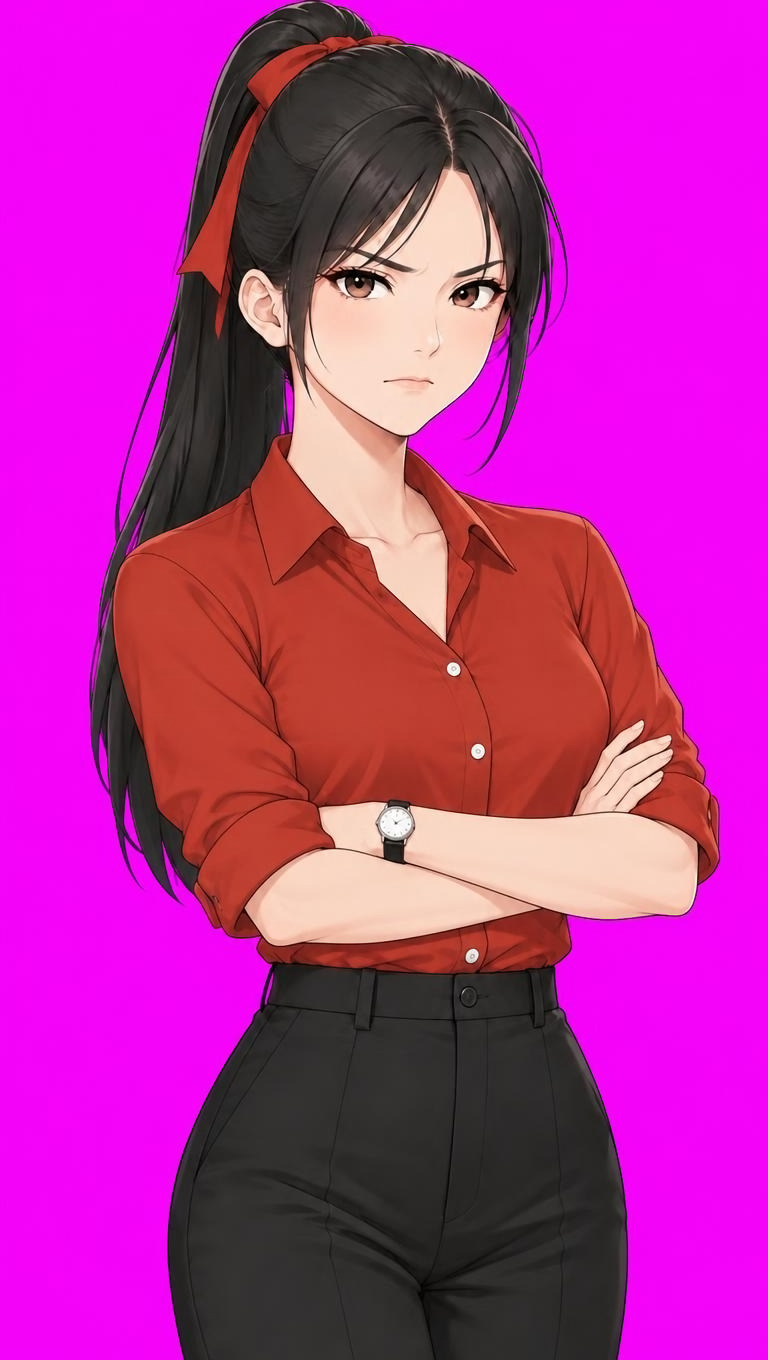
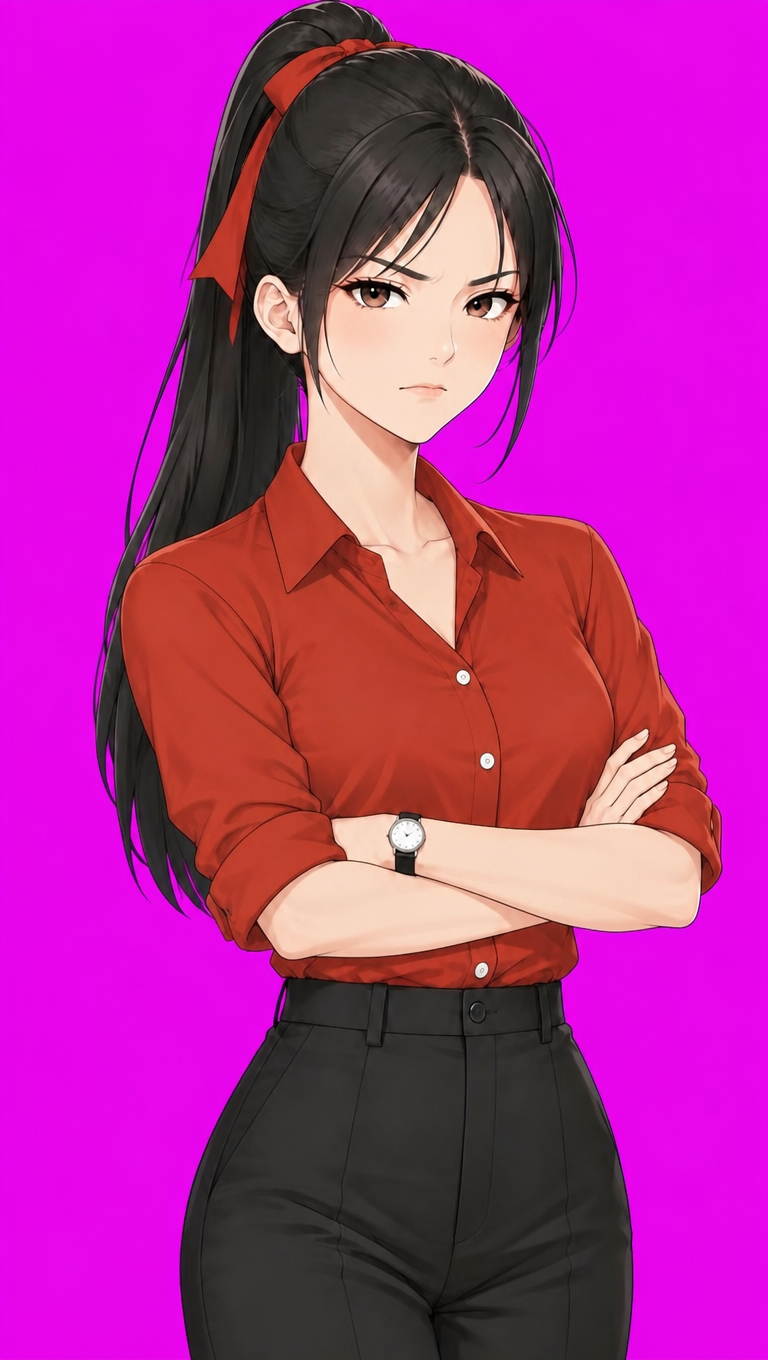
Minh Anh vẽ lại mặt ở các biểu cảm cho giống ảnh gốc (mặt thon, cằm nhọn, mắt to): vui / lo / nghiêm làm từ ảnh neo chỉ đổi nét mặt, khoanh tay sửa mặt theo ảnh neo; làm lại khung miệng mở / mắt nhắm và cắt khít bộ nhép môi cả bốn ảnh. cat-bo-moi.py nhận thêm bộ talk-rigs (prototype)

diff --git a/prototype/src/mvp/ui/nhep-moi-mvp.ts b/prototype/src/mvp/ui/nhep-moi-mvp.ts
@@ -138,8 +138,8 @@ export const BO_NHEP_MOI_MVP: ReadonlyMap<string, TalkRig> = new Map<string, Tal
   bo('char-tung-ao-xanh-thinking', tungAoXanhThinkingMouth, [391, 288, 59, 48], tungAoXanhThinkingEyes, [340, 191, 169, 76]),
   bo('char-tung-ao-xanh-doi-mu', tungAoXanhDoiMuMouth, [367, 302, 84, 52], tungAoXanhDoiMuEyes, [341, 211, 169, 68]),
   bo('char-ha-vy-day-kinh', haVyDayKinhMouth, [378, 382, 61, 47], haVyDayKinhEyes, [329, 287, 179, 60]),
-  bo('char-minh-anh-serious', minhAnhSeriousMouth, [376, 362, 67, 48], minhAnhSeriousEyes, [314, 257, 200, 66]),
-  bo('char-minh-anh-khoanh-tay', minhAnhKhoanhTayMouth, [377, 365, 63, 42], minhAnhKhoanhTayEyes, [309, 256, 204, 65]),
+  bo('char-minh-anh-serious', minhAnhSeriousMouth, [394, 373, 51, 32], minhAnhSeriousEyes, [322, 259, 201, 63]),
+  bo('char-minh-anh-khoanh-tay', minhAnhKhoanhTayMouth, [393, 372, 61, 34], minhAnhKhoanhTayEyes, [330, 268, 197, 65]),
   bo('char-quan-chi-man', quanChiManMouth, [341, 313, 72, 36], quanChiManEyes, [311, 220, 151, 49]),
   bo('char-nguoi-choi', nguoiChoiMouth, [358, 342, 77, 39], nguoiChoiEyes, [312, 232, 186, 74]),
   bo('char-duy', duyMouth, [343, 326, 83, 38], duyEyes, [302, 225, 181, 58]),

diff --git a/prototype/src/shared/ui/visuals/talk-rigs.ts b/prototype/src/shared/ui/visuals/talk-rigs.ts
@@ -77,15 +77,15 @@ const RIGS: readonly TalkRig[] = [
     sourceFile: '/src/assets/characters/char-minh-anh-worried.png',
     width: 768,
     height: 1360,
-    mouth: { src: minhAnhWorriedMouth, x: 372, y: 364, w: 72, h: 46 },
-    eyes: { src: minhAnhWorriedEyes, x: 314, y: 261, w: 200, h: 62 },
+    mouth: { src: minhAnhWorriedMouth, x: 387, y: 365, w: 60, h: 34 },
+    eyes: { src: minhAnhWorriedEyes, x: 321, y: 256, w: 198, h: 63 },
   },
   {
     sourceFile: '/src/assets/characters/char-minh-anh-happy.png',
     width: 768,
     height: 1360,
-    mouth: { src: minhAnhHappyMouth, x: 361, y: 351, w: 90, h: 63 },
-    eyes: { src: minhAnhHappyEyes, x: 310, y: 257, w: 203, h: 58 },
+    mouth: { src: minhAnhHappyMouth, x: 362, y: 356, w: 86, h: 56 },
+    eyes: { src: minhAnhHappyEyes, x: 318, y: 257, w: 197, h: 63 },
   },
   {
     sourceFile: '/src/assets/characters/char-ha-vy-anchor.png',

diff --git a/art/nguon/nhep-khit-2026-10-02/cat-bo-moi.py b/art/nguon/nhep-khit-2026-10-02/cat-bo-moi.py
@@ -1,4 +1,4 @@
-# Cắt khít cho các bộ MVP mới thêm (chưa qua công cụ): miệng theo cat-mieng-moi.py, mắt theo cat-mat-moi.py, ghi tệp + tọa độ.
+# Cắt khít cho các bộ mới thêm hoặc vẽ lại (MVP và talk-rigs) (chưa qua công cụ): miệng theo cat-mieng-moi.py, mắt theo cat-mat-moi.py, ghi tệp + tọa độ.
 # Hộp cũ (to) trong nhep-moi-mvp.ts làm cửa sổ tìm. Dùng: python cat-bo-moi.py <tên ảnh> [<tên ảnh>…]
 # rồi chạy loc-net-le.py <các tên> --ghi và ghi-toa-do.py.
 import sys, os, re, io
@@ -42,7 +42,7 @@ def nguon(ten):
 
 moi = {}
 for r in doc_rigs():
-    if r['tep'] != 'mvp' or r['ten'] not in CHON:
+    if r['ten'] not in CHON:  # cả bộ MVP lẫn bộ talk (talk-rigs.ts) cùng tên ảnh thì cắt cả hai
         continue
     nsM['G2'] = nsE['G2'] = nguon(r['ten'])
     e = catE(r)
@@ -58,13 +58,26 @@ for r in doc_rigs():
         continue
     m['img'].save(r['mouth'], 'WEBP', quality=92, alpha_quality=100, method=6)
     e['img'].save(r['eyes'], 'WEBP', quality=92, alpha_quality=100, method=6)
-    moi[r['ten']] = (m['box'], e['box'])
+    moi[(r['tep'], r['ten'])] = (m['box'], e['box'], r)
     print(f"{r['ten']:26s} mieng {m['box']} mat {e['box']} dich ({m['dx']},{m['dy']})/({e['dx']},{e['dy']})")
 p = 'src/mvp/ui/nhep-moi-mvp.ts'
 t = io.open(p, encoding='utf-8').read()
-for ten, (m, e) in moi.items():
+for (tep, ten), (m, e, r) in moi.items():
+    if tep != 'mvp':
+        continue
     t, n = re.subn(r"(bo\('" + re.escape(ten) + r"', \w+, )\[\d+, \d+, \d+, \d+\](, \w+, )\[\d+, \d+, \d+, \d+\]",
                    lambda mm: f"{mm.group(1)}[{m[0]}, {m[1]}, {m[2]}, {m[3]}]{mm.group(2)}[{e[0]}, {e[1]}, {e[2]}, {e[3]}]", t)
     assert n == 1, ten
-io.open(p, 'w', encoding='utf-8', newline='\n').write(t)
+io.open(p, 'w', encoding='utf-8', newline=chr(10)).write(t)
+p = 'src/shared/ui/visuals/talk-rigs.ts'
+t = io.open(p, encoding='utf-8').read()
+for (tep, ten), (m, e, r) in moi.items():
+    if tep != 'talk':
+        continue
+    sf = '/' + r['base'].replace(os.sep, '/')
+    pat = (r"(sourceFile: '" + re.escape(sf) + r"',\s*width: \d+,\s*height: \d+,\s*mouth: \{ src: \w+, )x: \d+, y: \d+, w: \d+, h: \d+"
+           r"( \},\s*eyes: \{ src: \w+, )x: \d+, y: \d+, w: \d+, h: \d+")
+    t, n = re.subn(pat, lambda mm: f"{mm.group(1)}x: {m[0]}, y: {m[1]}, w: {m[2]}, h: {m[3]}{mm.group(2)}x: {e[0]}, y: {e[1]}, w: {e[2]}, h: {e[3]}", t)
+    assert n == 1, ten
+io.open(p, 'w', encoding='utf-8', newline=chr(10)).write(t)
 print('ghi', len(moi), '/', len(CHON))

diff --git a/art/nguon/topview-2026-10-03b/GHI-CHU.md b/art/nguon/topview-2026-10-03b/GHI-CHU.md
@@ -15,3 +15,11 @@ Tạo qua MCP Topview (GPT Image 2, image_edit, 1K, medium; 0,2 credit/ảnh), b
 - `bg-mvp-ghe-da-tui-do.png`: sửa từ `bg-mvp-cong-truong`. Ghế đá dưới gốc cây, chiều muộn, túi vải rơi, đồ bày ra: giáo trình
   "Kinh tế vi mô" có nhãn lớp học phần, vé gửi xe, hóa đơn photo, đơn trong bìa nhựa có dấu đỏ, ví nâu đóng, điện thoại úp,
   hộp bút, chai nước. Dùng cho nhiệm vụ phụ `tui-do`.
+# Ảnh Topview 03/10/2026 (tối)
+
+- `bg-mvp-nha-van-hoa-dong-clb.png`: nền Ngày hội CLB, sửa thẳng từ nền cũ (một ảnh vào, không kèm ảnh mẫu bố cục để giữ nét).
+- Minh Anh vẽ lại mặt (user thấy các biểu cảm kém xinh hơn ảnh gốc: mặt bè, cằm vuông, mắt nhỏ). Vui / lo / nghiêm: lấy ảnh neo
+  `g2-char-minh-anh-anchor` rồi chỉ đổi nét mặt ("Pixel-identical copy … EXCEPT the facial expression"). Khoanh tay khác dáng nên
+  giữ ảnh cũ, đưa `char-minh-anh-v2-anchor` làm Image2 để sửa mặt theo. Ghi đè `topview-2026-10-01/g2/g2-char-minh-anh-*.png`
+  (cả `--mieng`, `--mat`), chạy `xu-ly-anh-dan-moi-2026-10-01.py` rồi bộ cắt nhép (`cat-bo-moi.py` giờ nhận cả bộ talk-rigs).
+- `minh-anh-so-sanh.png`: bảng so sánh hiện tại / cách A (giữ ảnh cũ, Image2 làm mẫu mặt) / cách B (từ ảnh neo) — user chọn B.
